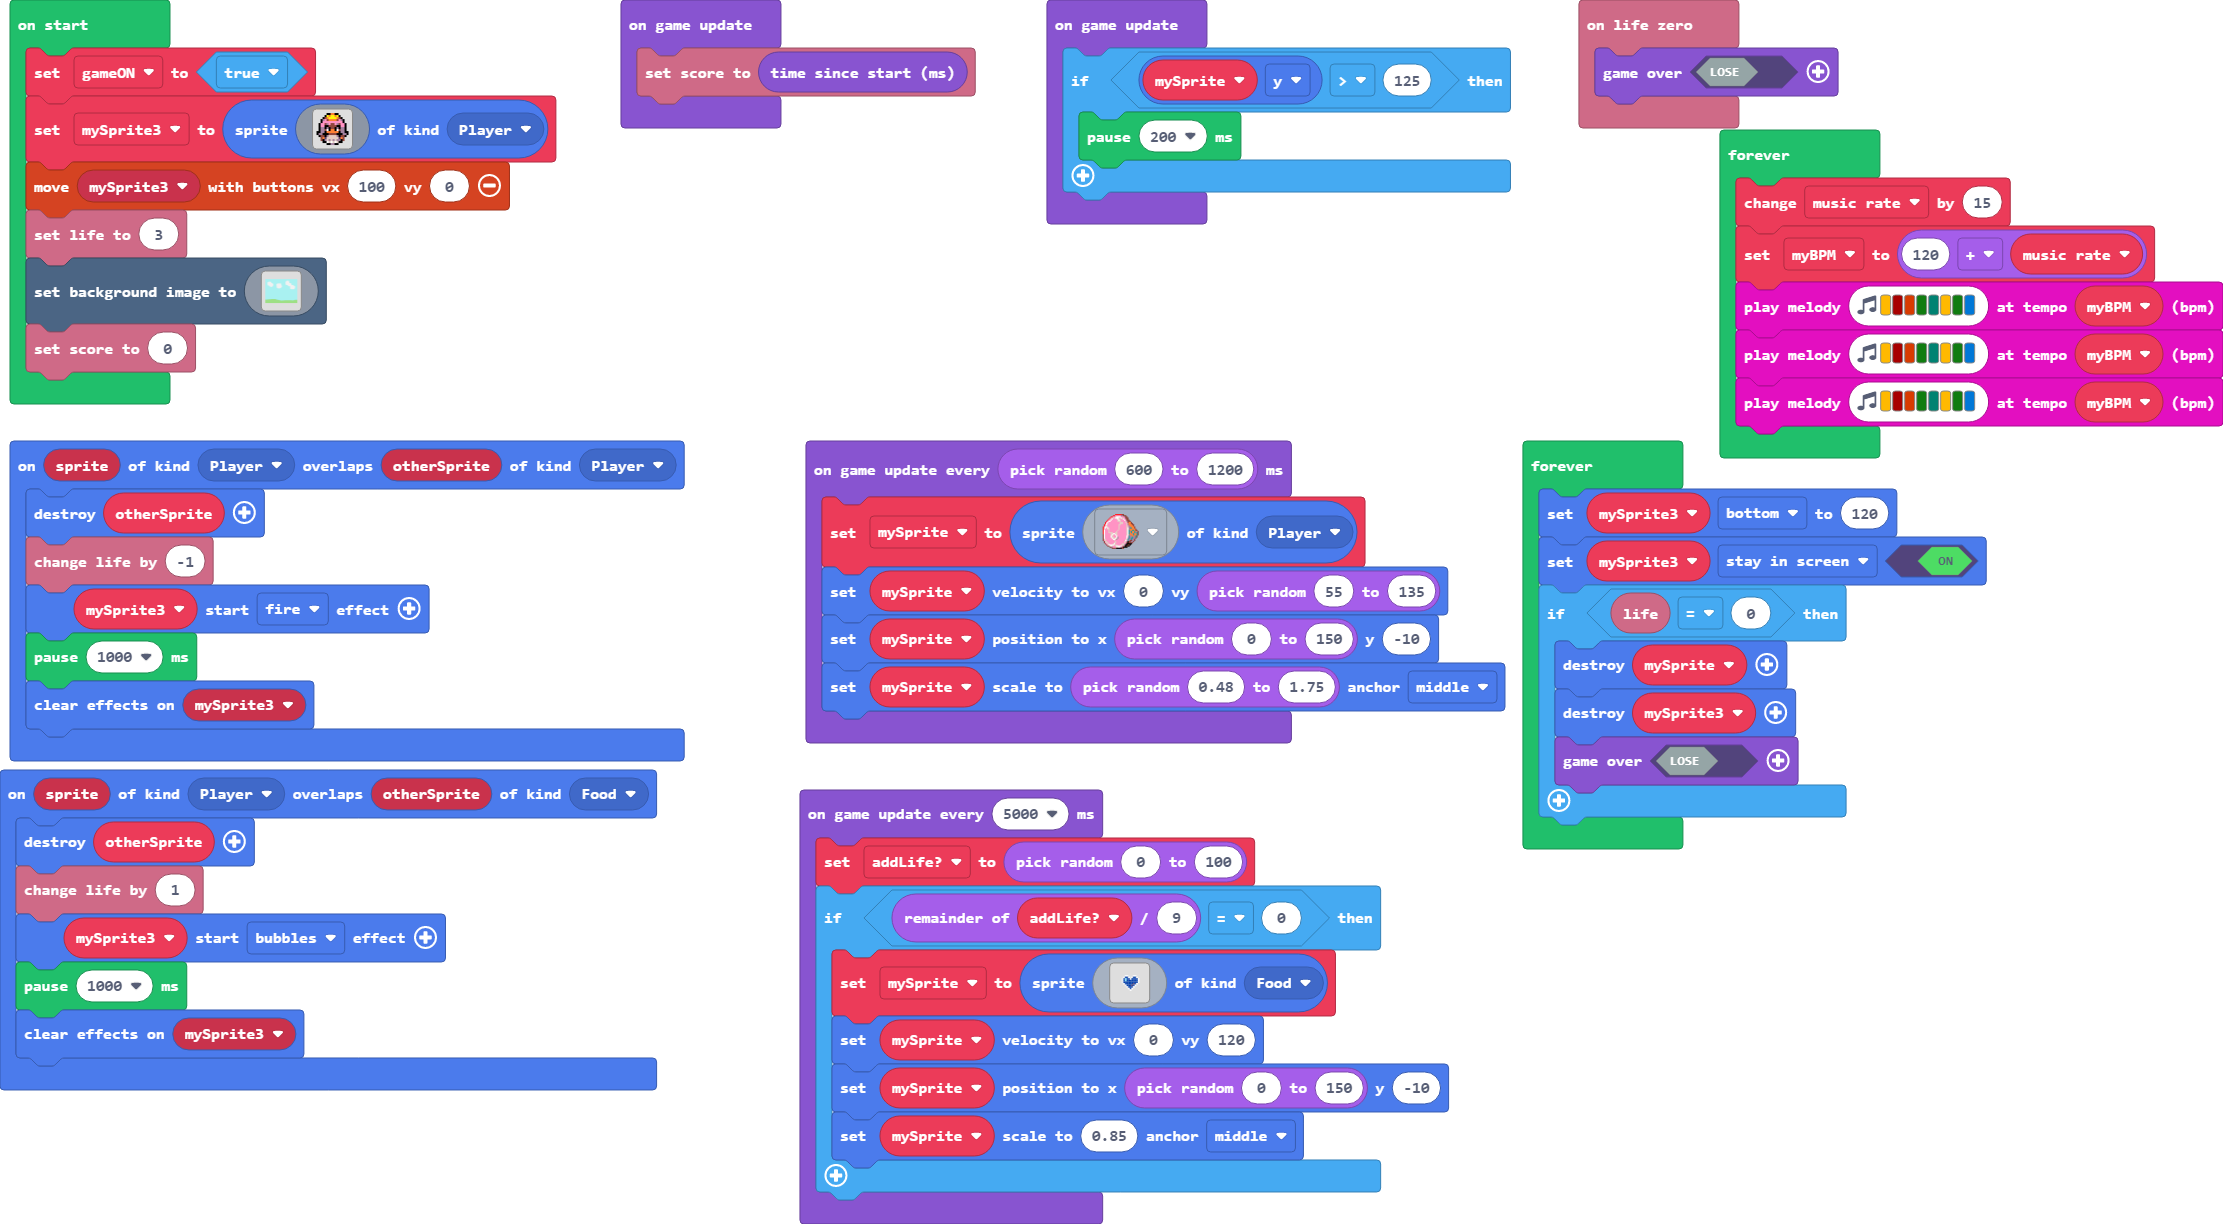
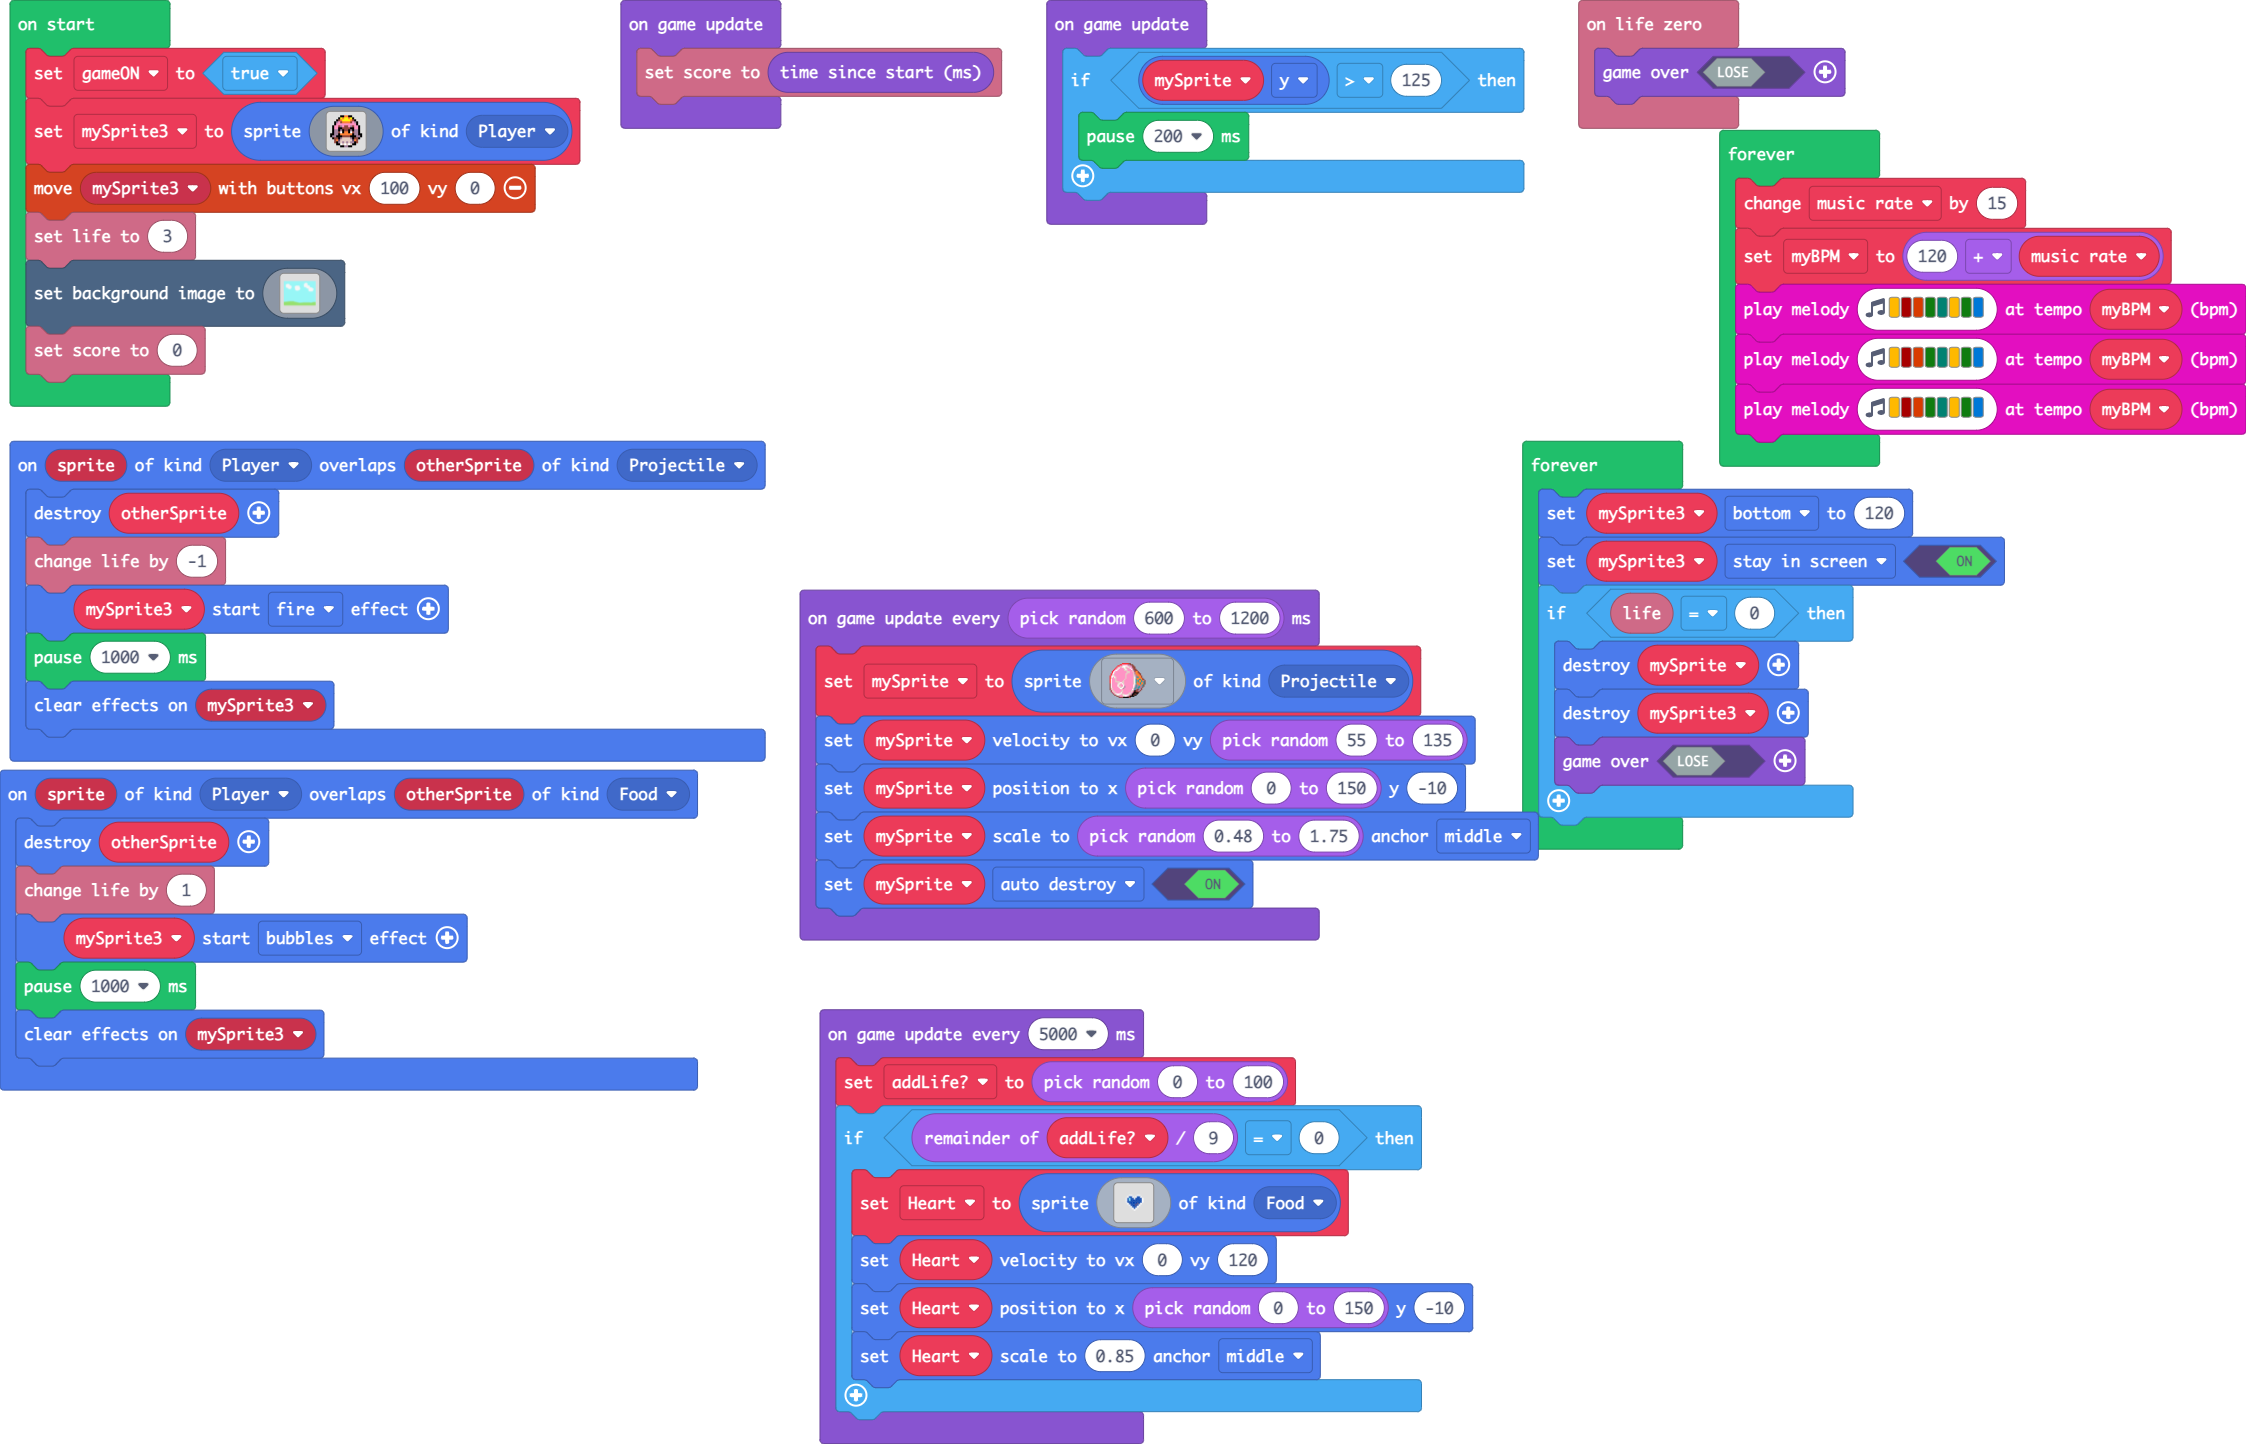
Fixes issue of laggy reponse at 20 hams. Deletes hams

diff --git a/main.ts b/main.ts
@@ -23,6 +23,7 @@ sprites.onOverlap(SpriteKindLegacy.Player, SpriteKindLegacy.Food, function (spri
 })
 let myBPM = 0
 let music_rate = 0
+let Heart: Sprite = null
 let addLife = 0
 let mySprite: Sprite = null
 let mySprite3: Sprite = null
@@ -181,10 +182,10 @@ game.onUpdate(function () {
 game.onUpdateInterval(5000, function () {
     addLife = randint(0, 100)
     if (addLife % 9 == 0) {
-        mySprite = sprites.create(assets.image`blueHeart`, SpriteKindLegacy.Food)
-        mySprite.setVelocity(0, 120)
-        mySprite.setPosition(randint(0, 150), -10)
-        mySprite.setScale(0.85, ScaleAnchor.Middle)
+        Heart = sprites.create(assets.image`blueHeart`, SpriteKindLegacy.Food)
+        Heart.setVelocity(0, 120)
+        Heart.setPosition(randint(0, 150), -10)
+        Heart.setScale(0.85, ScaleAnchor.Middle)
     }
 })
 game.onUpdateInterval(randint(600, 1200), function () {
@@ -192,6 +193,7 @@ game.onUpdateInterval(randint(600, 1200), function () {
     mySprite.setVelocity(0, randint(55, 135))
     mySprite.setPosition(randint(0, 150), -10)
     mySprite.setScale(randint(0.48, 1.75), ScaleAnchor.Middle)
+    mySprite.setFlag(SpriteFlag.AutoDestroy, true)
 })
 forever(function () {
     music_rate += 15
